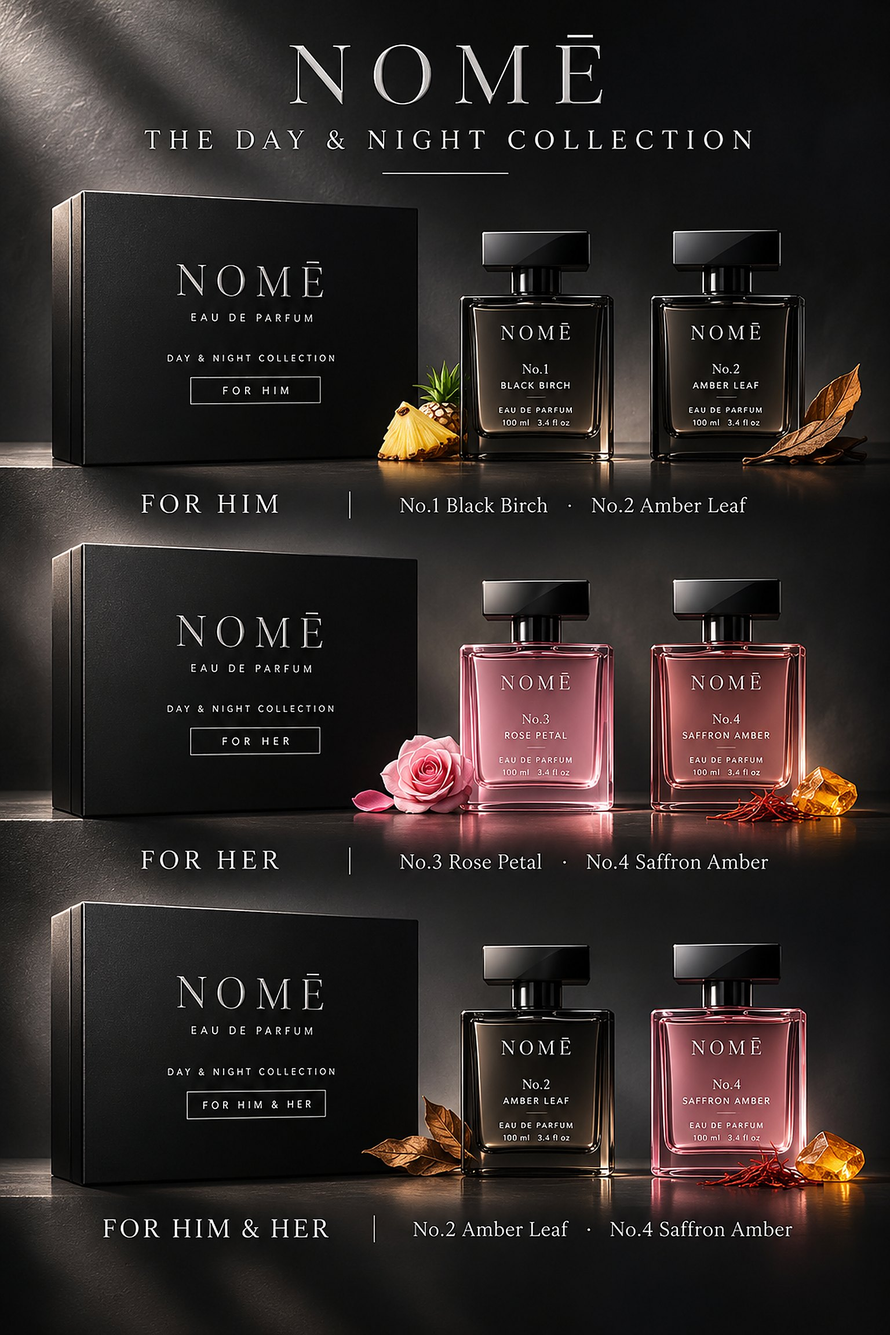
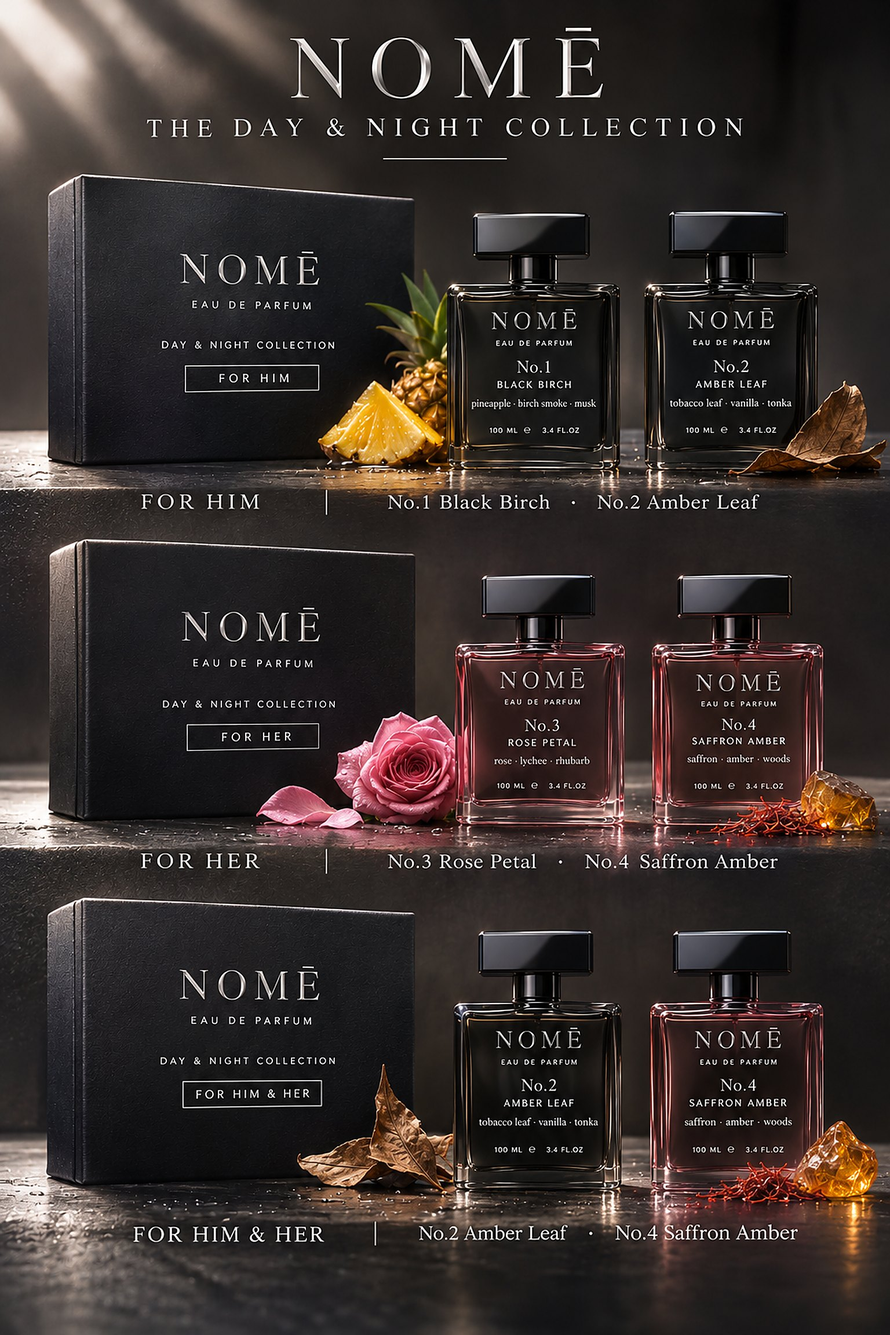
Hero: updated collection artwork with notes on the bottles
Claude-Session: https://claude.ai/code/session_01CbDgQStipMz1LxKXX1LKnJ

diff --git a/index.html b/index.html
@@ -44,7 +44,7 @@
 
 <main>
 <section class="hero-split">
-<div class="hs-img"><picture><source media="(max-width: 760px)" srcset="images/hero-mobile-sets.jpg" width="1482" height="1497"><img src="images/hero-collection.jpg" alt="The NOMĒ Day and Night Collection: For Him, For Her and For Him and Her boxes, each beside its two fragrances and their ingredients" width="1536" height="2304" fetchpriority="high"></picture></div>
+<div class="hs-img"><picture><source media="(max-width: 760px)" srcset="images/hero-mobile-sets.jpg?v=3" width="1482" height="1575"><img src="images/hero-collection.jpg?v=3" alt="The NOMĒ Day and Night Collection: For Him, For Her and For Him and Her boxes, each beside its two fragrances and their ingredients" width="1536" height="2304" fetchpriority="high"></picture></div>
 <div class="hero-text">
 <p class="eyebrow">NOMĒ · The Day &amp; Night Collection</p>
 <h1>A fragrance for every side of you.</h1>
